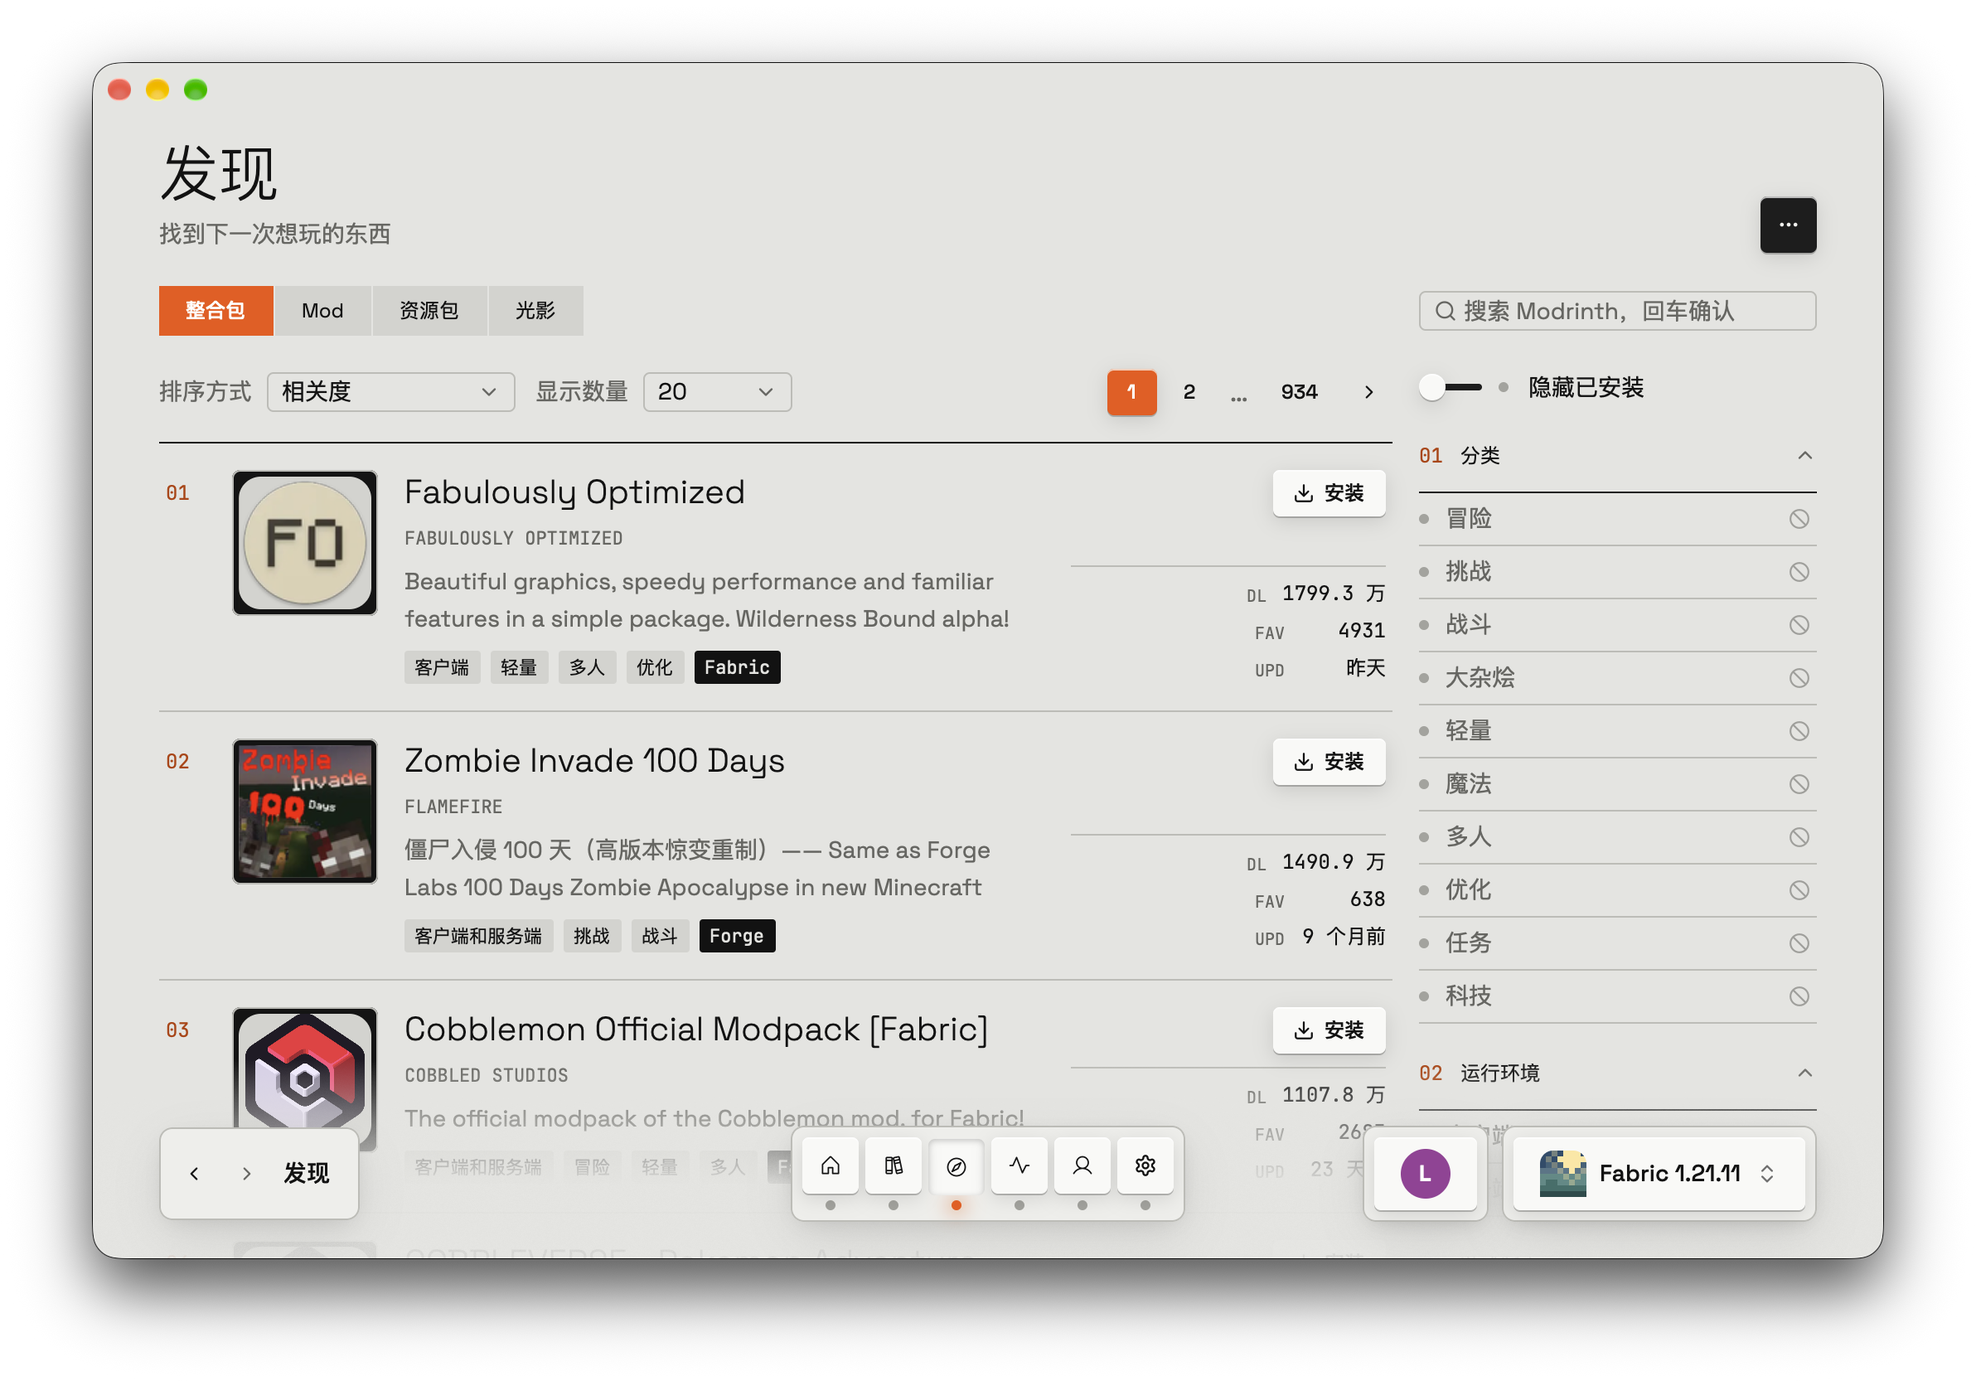
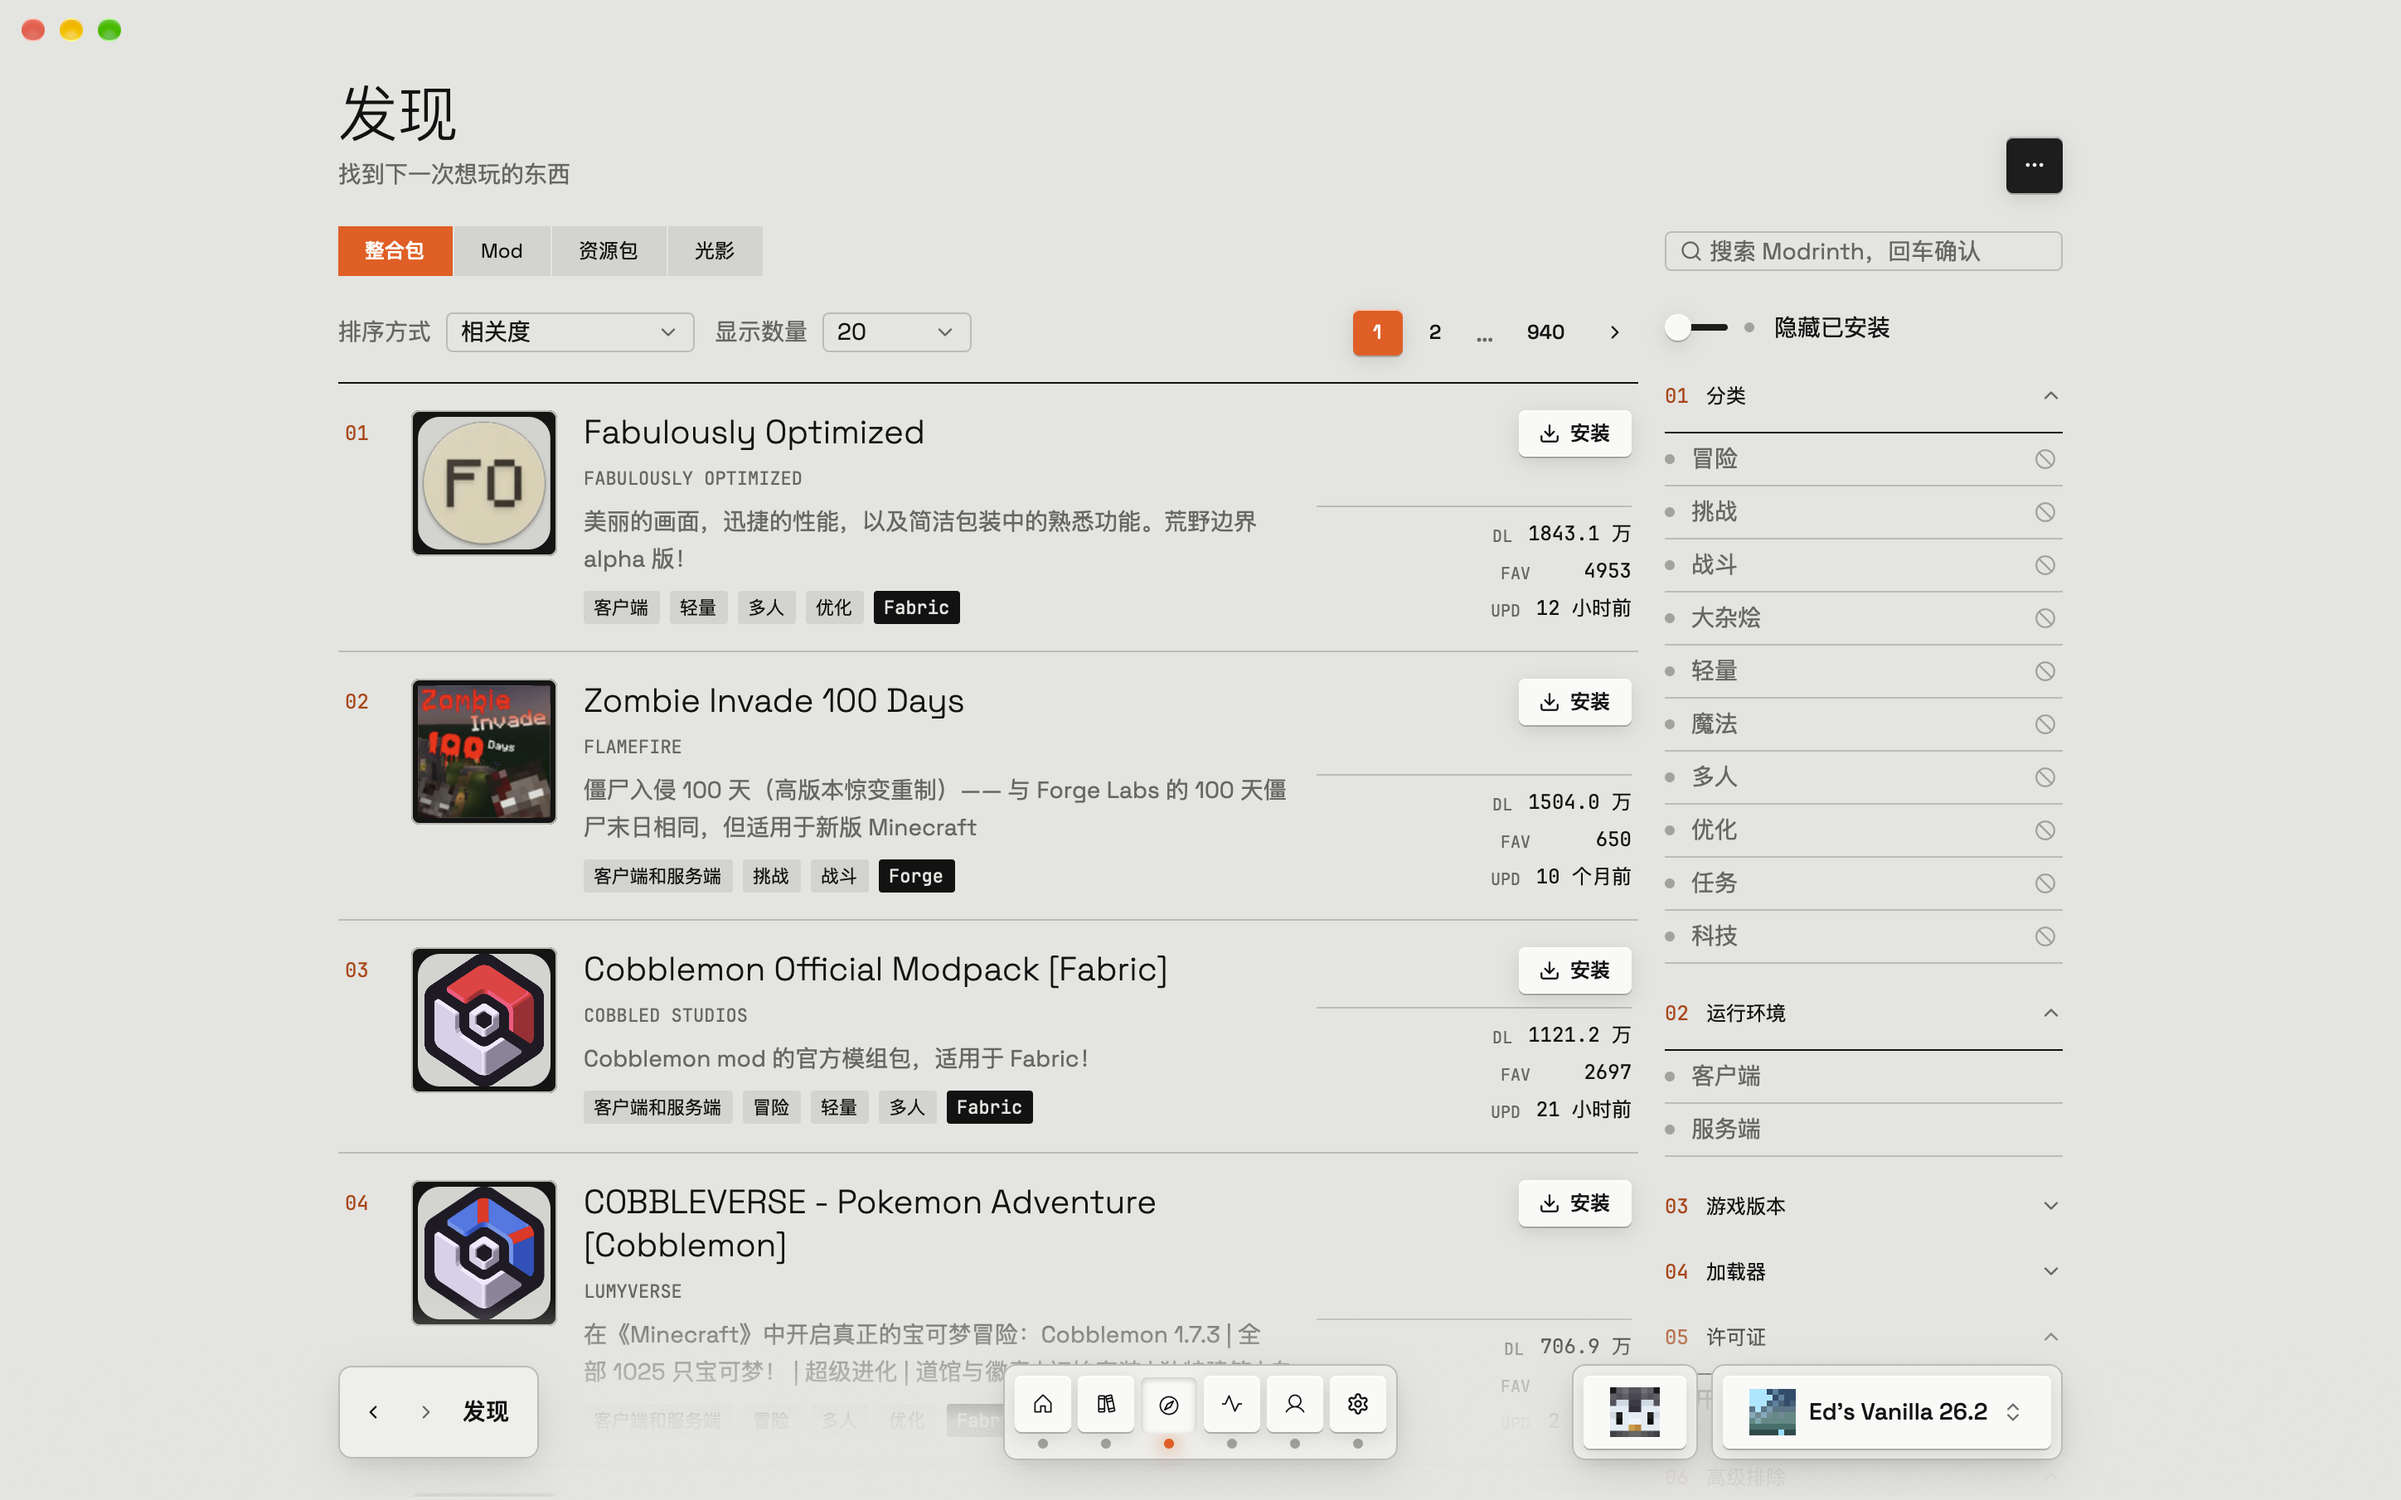
web: refresh screenshots, cap roadmap, dynamic hero teasers (#26)
web: refresh screenshots, cap roadmap sections, dynamic hero teasers

- Add 14 new screenshots and update 2 existing ones
- Homepage roadmap: show first 3 non-completed plans (3-column grid)
- Docs roadmap: show first 4 non-completed plans
- Hero faceplate: grey cells now dynamically pick the first 3
  upcoming plans instead of hardcoded IDs, so completed plans
  rotate out automatically
- Update roadmap test to verify dynamic teaser invariants

diff --git a/web/src/i18n/zh-cn.ts b/web/src/i18n/zh-cn.ts
@@ -55,13 +55,13 @@ export const zhCN = {
       name: "世界地图",
       lede: "从存档的 Region 文件画出地表，或者只凭种子算出结构的位置。路径点能和 Xaero 小地图互通。",
       facts: ["存档底图与种子地图", "结构、区块与 Region 图层", "复制坐标与路径点分享串"],
-      shot: "世界地图的动图：平移、缩放、打开结构图层",
+      shot: "世界地图的种子预测与结构图层截图",
     },
     schematic: {
       name: "投影预览",
       lede: "打开 Litematica 投影，看材料清单，或者用游戏自己的贴图在 3D 里转着看、飞进去看。",
       facts: ["材料清单导出为 CSV", "环绕查看与第一人称飞行", "用游戏自带的贴图绘制"],
-      shot: "投影 3D 预览的动图：旋转后切到第一人称",
+      shot: "Litematica 投影的 3D 环绕预览截图",
     },
     diagnostics: {
       name: "崩溃诊断",
@@ -94,9 +94,7 @@ export const zhCN = {
       "{date}，在 {machine}（{os}）上测量。LumilioCL {us} 与 {them} {themVersion} 各启动 {runs} 次，每次启动前先退出；用 footprint 读取启动 30 秒后的物理内存（与活动监视器的「内存」一致），{them} 计入它的 WebKit 辅助进程，取中位数。",
   },
 
-  // Each point is a key that swaps the panel's picture. TODO(asset): give every
-  // point its own `shot` (a path under public/, 16:10); until then a point
-  // shows its group's `shot`, or a placeholder naming the point.
+  // Each point selects its own 16:10 screenshot through the existing keys.
   audiences: {
     title: "不管你玩了多久",
     lede: "LumilioCL 都已准备好，体验前所未有的功能丰富度和可扩展性",
@@ -108,26 +106,26 @@ export const zhCN = {
         title: "第一次玩，也不折腾",
         lede: "装好就能玩。任何环境它来准备。",
         points: [
-          { text: "自动下载，自动检测每个版本需要的 Java。", shot: null },
-          { text: "支持 Microsoft 正版账户，离线账户，以及第三方登录。", shot: null },
-          { text: "下载慢？多线程下载与网络代理为你助力。 （国内支持 BMCLAPI 镜像）", shot: null }, // 在英文中不需要提及BMCLAPI
-          { text: "把官方启动器、MultiMC、Prism 里的游戏直接搬过来", shot: null },
-          { text: "游戏崩溃时，自动分析可能的原因", shot: null },
+          { text: "自动检测 Java，也能下载推荐版本", shot: "/shots/java-runtimes.png" },
+          { text: "Microsoft、离线账户与第三方登录", shot: "/shots/accounts.png" },
+          { text: "配置下载源、镜像优先与同时下载数", shot: "/shots/download-settings.png" },
+          { text: "从其他启动器导入游戏", shot: "/shots/import-games.png" },
+          { text: "游戏崩溃时，分析可能的原因并给出建议", shot: "/shots/crash-analysis.png" },
         ],
-        shot: "/shots/home.png",
-        shotName: "首页",
+        shot: "/shots/java-runtimes.png",
+        shotName: "Java 管理页",
       },
       {
         id: "player",
         name: "进阶玩家",
-        title: "模组、整合包和存档，都在一处",
-        lede: "每个游戏各自独立。装模组、看地图、对投影，不用再开第二个工具。",
+        title: "模组、建筑与外观，都在一处",
+        lede: "装模组、看地图、对投影，也能管理角色外观。",
         points: [
-          { text: "在启动器里浏览 Modrinth 的模组、资源包、光影和整合包", shot: null },
-          { text: "导入 .mrpack 与 MultiMC / Prism 整合包", shot: null },
-          { text: "内置世界地图：集成种子地图，存档地图和 Xaero 的世界地图", shot: null },
-          { text: "Litematica 投影：材料清单，完整 3D 预览", shot: null },
-          { text: "完整备份与恢复；皮肤预览与管理", shot: null },
+          { text: "浏览和安装 Modrinth 的模组、资源包、光影和整合包", shot: "/shots/discovery.png" },
+          { text: "世界地图：种子预测、存档地图与结构图层", shot: "/shots/world-map.png" },
+          { text: "Litematica 投影：完整 3D 预览", shot: "/shots/schematic-preview.png" },
+          { text: "Litematica 投影：材料清单与 CSV 导出", shot: "/shots/schematic-materials.png" },
+          { text: "预览和管理皮肤，查看披风与鞘翅外观", shot: "/shots/skins.png" },
         ],
         shot: "/shots/discovery.png",
         shotName: "发现页",
@@ -138,15 +136,14 @@ export const zhCN = {
         title: "原生代码，开放到底",
         lede: "没有浏览器内核。每一帧由 GPU 绘制，每一行代码都在 GitHub 上。",
         points: [
-          { text: "Rust 2024 与 GPUI，不用 Electron，也不用 WebView", shot: null },
-          { text: "AGPL-3.0-only；安装包由 GitHub Actions 从公开代码构建", shot: null },
-          { text: "没有内置遥测，发现页还能排除带遥测的模组", shot: null },
-          { text: "下载地址规则随你改，官方源始终是回退", shot: null },
-          { text: `插件系统已经就位，${plannedTeasers.plugins.version} 目标为 WASM 社区插件`, shot: null },
+          { text: "Rust 2024 与 GPUI，代码以 AGPL-3.0-only 开源", shot: "/shots/source.png" },
+          { text: "自定义下载地址规则，官方源保留为回退", shot: "/shots/mirror-rules.png" },
+          { text: "选择明暗主题，调整字体与界面缩放", shot: "/shots/appearance.png" },
+          { text: "配置内置插件与 Discord 游戏状态", shot: "/shots/plugins.png" },
+          { text: "创建快照、完整备份与导出整合包", shot: "/shots/backups.png" },
         ],
-        // TODO(asset): a screenshot for this group, e.g. the diagnostics log view.
-        shot: null,
-        shotName: "诊断页",
+        shot: "/shots/source.png",
+        shotName: "项目源码",
       },
     ],
   },

diff --git a/web/src/components/hero/plate.ts b/web/src/components/hero/plate.ts
@@ -16,15 +16,14 @@ export type Cell =
 // Row-major, as in the icon.
 export const CELLS: readonly Cell[] = [
   { kind: "feature", id: "library", scene: "dawn", index: 1, shot: "/shots/game-library.png" },
-  { kind: "planned", id: "appearance" },
+  { kind: "planned", id: 0 },
   { kind: "launch" },
   { kind: "feature", id: "discover", scene: "portal", index: 2, shot: "/shots/discovery.png" },
-  { kind: "planned", id: "translation" },
-  { kind: "planned", id: "plugins" },
-  // TODO(asset): screenshots or GIFs for these three, described in the catalog's `shot`.
-  { kind: "feature", id: "map", scene: "map", index: 3, shot: null },
-  { kind: "feature", id: "schematic", scene: "redstone", index: 4, shot: null },
-  { kind: "feature", id: "diagnostics", scene: "caves", index: 5, shot: null },
+  { kind: "planned", id: 1 },
+  { kind: "planned", id: 2 },
+  { kind: "feature", id: "map", scene: "map", index: 3, shot: "/shots/world-map.png" },
+  { kind: "feature", id: "schematic", scene: "redstone", index: 4, shot: "/shots/schematic-preview.png" },
+  { kind: "feature", id: "diagnostics", scene: "caves", index: 5, shot: "/shots/crash-analysis.png" },
 ];
 
 export const FEATURE_COUNT = CELLS.filter((cell) => cell.kind === "feature").length;

diff --git a/web/src/data/roadmap.ts b/web/src/data/roadmap.ts
@@ -21,15 +21,16 @@ export function primaryPlans(language: DocsLanguage) {
   });
 }
 
-// These three IDs are curated positions in the logo, independent of list order.
-function teaser(id: string) {
-  const item = roadmapItems.find((entry) => entry.id === id);
-  if (!item || !item.version) throw new Error(`Missing public roadmap teaser: ${id}`);
-  return { ...item, version: item.version };
-}
+// The three grey cells in the hero, always the first three upcoming plans.
+const upcoming = roadmapItems
+  .filter((item) => item.status !== "completed" && item.version)
+  .slice(0, 3)
+  .map((item) => ({ ...item, version: item.version! }));
+
+if (upcoming.length < 3) throw new Error(`Need at least 3 upcoming roadmap teasers, got ${upcoming.length}`);
 
 export const plannedTeasers = {
-  appearance: teaser("appearance"),
-  translation: teaser("discover-translation"),
-  plugins: teaser("wasm-plugin-registry"),
-};
+  0: upcoming[0],
+  1: upcoming[1],
+  2: upcoming[2],
+} as const;

diff --git a/web/src/data/roadmap.test.ts b/web/src/data/roadmap.test.ts
@@ -21,13 +21,12 @@ describe("public plan projection", () => {
     }
     expect(english.find((plan) => plan.planId === "appearance")?.name).toBe("Themes and appearance");
   });
-  it("keeps the three curated logo cells linked to stable public plan IDs", () => {
-    expect(plannedTeasers.appearance.planId).toBe("appearance");
-    expect(plannedTeasers.translation.planId).toBe("discover-translation");
-    expect(plannedTeasers.plugins.planId).toBe("wasm-plugin-registry");
+  it("keeps the three hero teasers linked to upcoming public plans", () => {
+    expect(Object.keys(plannedTeasers)).toHaveLength(3);
     for (const teaser of Object.values(plannedTeasers)) {
       expect(roadmapItems.some((item) => item.id === teaser.id)).toBe(true);
       expect(teaser.version).toBeTruthy();
+      expect(teaser.status).not.toBe("completed");
     }
   });
 });

diff --git a/web/src/styles/sections.css b/web/src/styles/sections.css
@@ -427,7 +427,7 @@
 
 .roadmap__strip {
   display: grid;
-  grid-template-columns: repeat(4, minmax(0, 1fr));
+  grid-template-columns: repeat(3, minmax(0, 1fr));
   margin: 48px 0 0;
   padding: 0;
   list-style: none;
